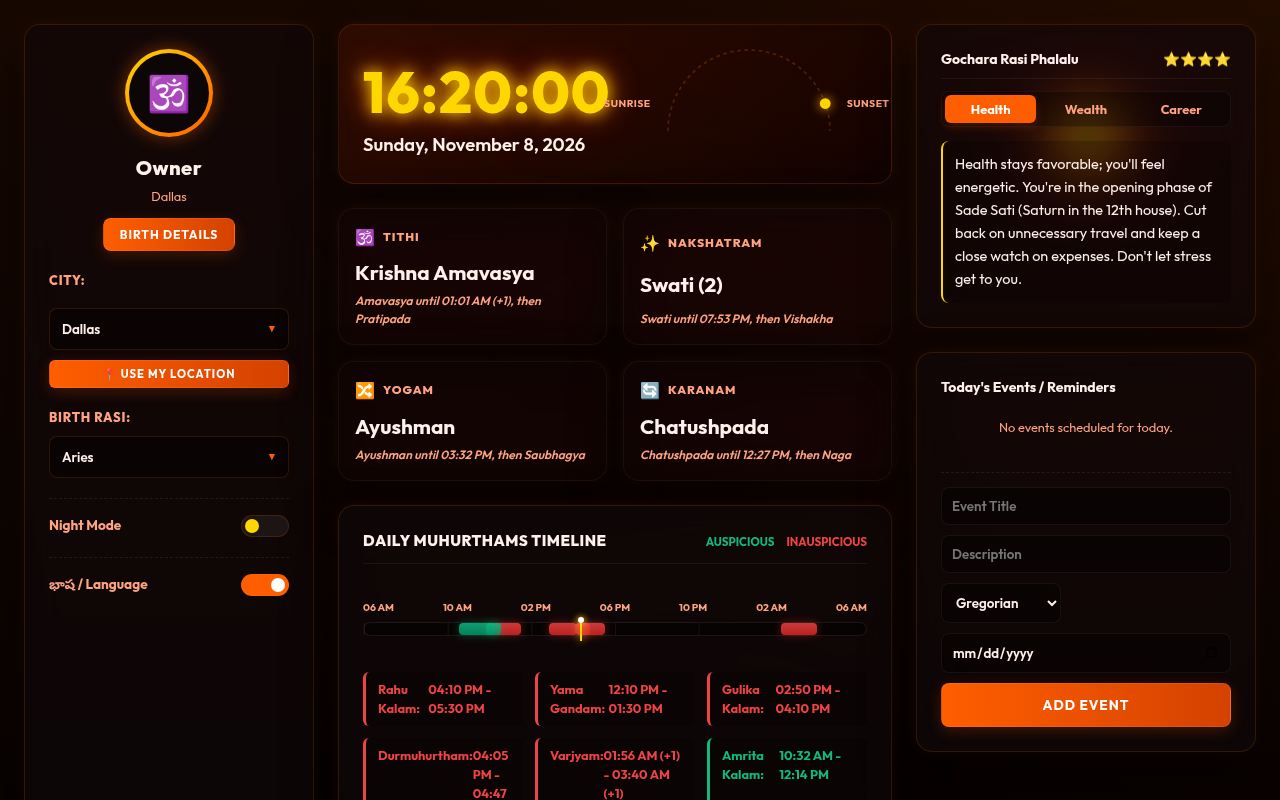
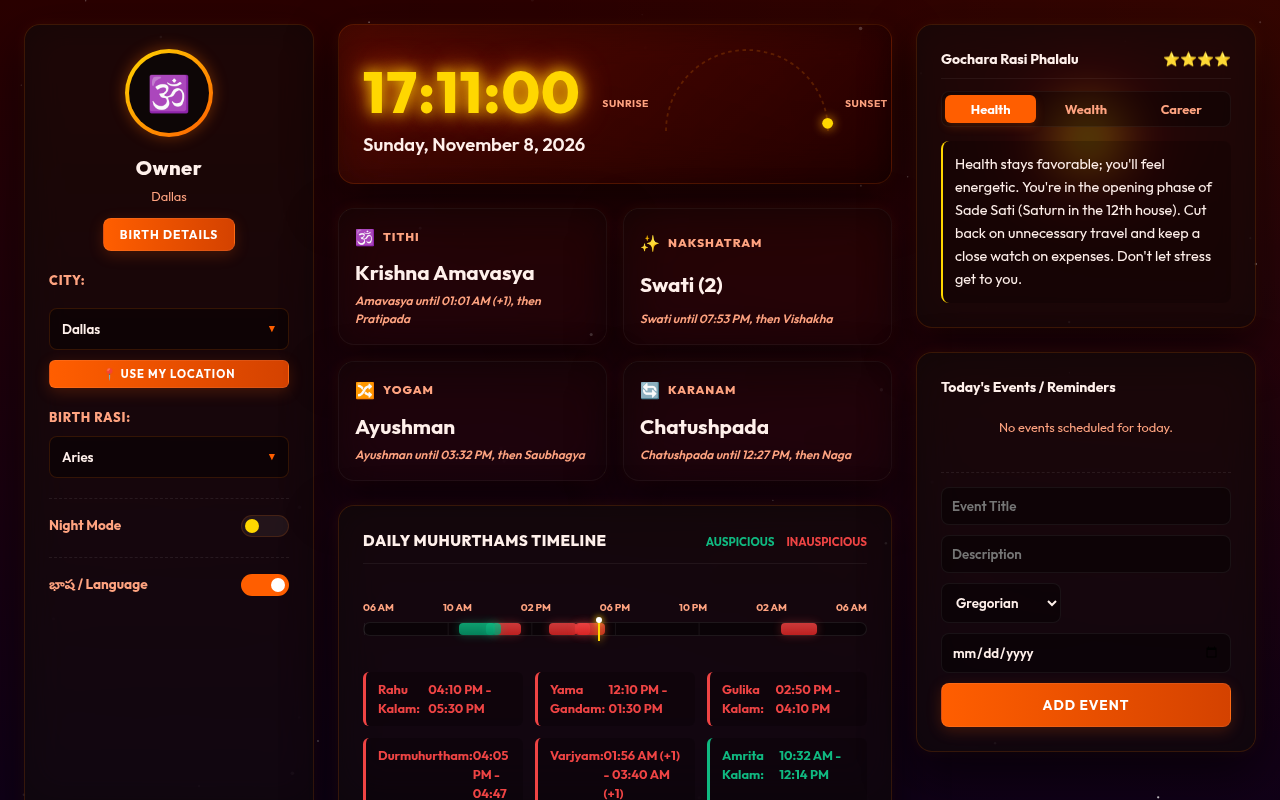
docs/marketing: fix launch-kit review findings (lane G)
- Posts may only show what the live version does: the 15 Oct post has no image (festivals only
  show in the blocked month-grid shot) and the 29 Oct post uses the 1.2.0 store shot until 2.0.0
  is live. "Needs" now means skip unless live, for every row.
- Vaikunta Ekadashi: the Bay Area and Seattle keep it on 19 Dec with an afternoon parana on 20 Dec;
  the post and section 7 say so. Section 7 also logs the other past-morning paranas and Seattle's
  13-second Bhishma Ekadashi window for lane A.
- Shot 01 is blocked and removed: in Telugu the clock card overflows at 1280px (clock over the
  sunrise label, sunset label clipped), logged for lane C. screenshots.mjs now refuses such shots;
  shot 02 is retaken at 17:11 so its clock clears the label. Festival names dropped from shots
  that don't show a festival.
- 2.0.0 submit-by moved to 15 Oct, lane F to 13 Feb; ratings checkpoint is 39 by 8 Mar, on the
  line to 50 by 6 Apr.
- Listing draft: "Now" quotes "Ritu and Masa" exactly; the Telugu bullet uses అయనం, not ఆయనం.

Claude-Session: https://claude.ai/code/session_01Pu4SSUaa4HZ38UCLnhaiD6

Changed region(s): [[0.25, 0.0312, 0.5, 0.2188], [0.625, 0.0938, 0.6875, 0.1875], [0.4375, 0.75, 0.4688, 0.8125]]

diff --git a/docs/marketing/launch-kit.md b/docs/marketing/launch-kit.md
@@ -9,7 +9,9 @@ the owner and board to approve; nothing in `chrome-store/` is changed here.
 - **Live on the Chrome Web Store: 1.2.0.** Version 2.0.0 is not published yet; publishing waits for the
   owner to run the release workflow. 2.0.0 adds Bathukamma, Atla Tadde, Karthika Somavaram, every
   Ekadashi with its parana time, Gulika Kalam, Moon-based Rasi Phalalu and the sankalpam place line for
-  US cities. A post may only mention what the published version does; the "Needs" column in §2.2 says
+  US cities. A post may only mention or show what the published version does. The §5 screenshots are
+  of 2.0.0 (they show Gulika Kalam, for one), so until 2.0.0 is live a post uses a 1.2.0 store
+  screenshot from `chrome-store/assets/screenshots/` or no image. The "Needs" column in §2.2 says
   which version or lane each post depends on.
 - **Not built yet:** printable month (lane F), share card and rating prompt (lane E), onboarding
   (lane D), Telugu store listing and optional location permission (lane B), "Upcoming this week"
@@ -41,9 +43,9 @@ India. Offline, no ads, no tracking.
    (`core/profiles/observance/andhra-telangana.js`): Engili Pula Bathukamma on Bhadrapada Amavasya and
    Saddula Bathukamma on Ashwayuja Shukla Ashtami; Atla Tadde by moonrise, so it can fall a day apart
    (27 Oct in Dallas, 28 Oct in Hyderabad this year); every Ekadashi with its parana window (after Hari
-   Vasara, within the morning, before Dwadashi ends; `core/rules.js`); Vaikunta Ekadashi by Dhanurmasam;
-   శుద్ధ/బహుళ; the samvatsara changes at Ugadi. **Needs 2.0.0.** Say "follows Telugu practice", not
-   "verified": most of these rules have no reference fixture yet.
+   Vasara, in the morning where it can be, before Dwadashi ends; `core/rules.js`); Vaikunta Ekadashi
+   by Dhanurmasam; శుద్ధ/బహుళ; the samvatsara changes at Ugadi. **Needs 2.0.0.** Say "follows Telugu
+   practice", not "verified": most of these rules have no reference fixture yet.
 
 ## 2. Seasonal content calendar, Oct 2026 to Apr 2027
 
@@ -96,17 +98,19 @@ starts Sunday 14 Mar 2027.
 Posts go out three days before the earlier of the two city dates. Association newsletters need
 about four weeks' lead; send Template 1 when the version it describes is already published.
 Reddit gets two posts in the whole window (Sankranti and Ugadi) so it never reads as spam.
+"Needs" is what must be live on the store (or shipped by a lane) on the posting day; if it isn't,
+skip the post, or the part of it that needs it.
 
 | Post on | For | What to post | Where | Needs |
 |---|---|---|---|---|
-| Tue 6 Oct | Engili Pula Bathukamma (Dallas 9 Oct, Hyderabad 10 Oct); Navaratri from 11 Oct | Bathukamma's nine days, with Saddula Bathukamma on 18 Oct marked on the tab for your city. Template 3. | Bathukamma event pages of ATA, TAGDV and the Dallas and Bay Area associations; Telangana WhatsApp groups; Instagram creators | 2.0.0 published by 6 Oct; otherwise skip |
-| Thu 15 Oct | Saddula Bathukamma and Durgashtami 18 Oct, Mahanavami 19 Oct, Dasara 20 Oct | Dasara week at a glance; screenshot 01. | Association social pages, temple WhatsApp groups | Dasara: 1.2.0. Bathukamma: 2.0.0 |
+| Tue 6 Oct | Engili Pula Bathukamma (Dallas 9 Oct, Hyderabad 10 Oct); Navaratri from 11 Oct | Bathukamma's nine days, with Saddula Bathukamma on 18 Oct marked on the tab for your city. Template 3. | Bathukamma event pages of ATA, TAGDV and the Dallas and Bay Area associations; Telangana WhatsApp groups; Instagram creators | 2.0.0 |
+| Thu 15 Oct | Saddula Bathukamma and Durgashtami 18 Oct, Mahanavami 19 Oct, Dasara 20 Oct | Dasara week at a glance. No image: on the tab, festivals show only in the month grid (shot 3, blocked). | Association social pages, temple WhatsApp groups | Dasara: 1.2.0. Bathukamma: 2.0.0 |
 | Sat 24 Oct | Atla Tadde (Dallas 27 Oct, Hyderabad 28 Oct) | "Atla Tadde follows moonrise, so the day depends on where you live." The clearest city-specific example. | TANA and NATA social pages, Andhra WhatsApp groups, cooking creators | 2.0.0 |
-| Thu 29 Oct | Clocks fall back Sun 1 Nov | "Rahu Kalam moves an hour with the clocks; the tab already accounts for it." Screenshot 02. | US association pages and US temple WhatsApp groups only | 1.2.0 (Drik fixture covers 1 Nov in Dallas) |
+| Thu 29 Oct | Clocks fall back Sun 1 Nov | "Rahu Kalam moves an hour with the clocks; the tab already accounts for it." Image: screenshot 02 if 2.0.0 is live, otherwise the 1.2.0 store shot `chrome-store/assets/screenshots/02-dallas-full.png` or none. | US association pages and US temple WhatsApp groups only | 1.2.0 (Drik fixture covers 1 Nov in Dallas) |
 | Wed 4 Nov | Naraka Chaturdashi (Dallas 7 Nov, Hyderabad 8 Nov), Deepavali 8 Nov | Deepavali; note that the pre-dawn oil bath day differs by city this year. | All channels except Reddit | Deepavali: 1.2.0. The date split: 2.0.0, checked against Drik first |
 | Fri 6 Nov | Karthika masam (Mondays from 9 Nov in Dallas, 16 Nov in Hyderabad), Nagula Chavithi, Karthika Purnima | Every Karthika Somavaram marked for your city. | Shiva temple WhatsApp groups, creators doing Karthika vratam content | 2.0.0 |
 | Tue 17 Nov | Utthana Ekadashi (Dallas 20 Nov, Hyderabad 21 Nov) | Optional: parana time on the tab. | Temple WhatsApp groups | 2.0.0 |
-| Thu 17 Dec | Vaikunta Ekadashi 20 Dec, parana 21 Dec | Vaikunta Ekadashi with the next morning's parana window for your city. Tell people to check their own city: the engine puts it on 19 Dec for the Bay Area. | Venkateswara/Balaji temple WhatsApp groups and newsletters, creators | 2.0.0; check the Bay Area date against Drik first |
+| Thu 17 Dec | Vaikunta Ekadashi: 20 Dec with parana the morning of 21 Dec in India and every US preset except the West Coast; 19 Dec in the Bay Area and Seattle, with parana from 12:05 PM on 20 Dec | Vaikunta Ekadashi with the parana window for your city; tell people to check their own city on the tab. Say "next-morning parana on 21 Dec" only for the cities where it holds. | Venkateswara/Balaji temple WhatsApp groups and newsletters, creators | 2.0.0; check the Bay Area and Seattle date and parana against Drik first, and leave them out of the post if Drik differs |
 | Sun 10 Jan | Bhogi (Dallas 13 Jan, Hyderabad 14 Jan), Sankranti, Kanuma, Mukkanuma | "Sankranti 2027 is on 14 Jan in the US and 15 Jan in Hyderabad": the Sun enters Makara in the evening in India, which is still morning in the US. First Reddit post. | All channels; r/telugu (Template 4), r/ABCDesis (English) | 2.0.0; check the dates against Drik first. Share card (lane E) if shipped |
 | Mon 8 Feb | Vasanta Panchami 11 Feb, Ratha Saptami 13 Feb | Optional, short. | Creators | 1.2.0 |
 | Tue 2 Mar | Maha Shivaratri (Dallas 5 Mar, Hyderabad 6 Mar) | Shivaratri follows the midnight (nishita) rule, so the US night can be a day earlier. | Shiva temple WhatsApp groups, association pages | 2.0.0 |
@@ -120,7 +124,7 @@ sankalpam reads ప్లవంగ from 7 Apr (screenshot 04).
 
 | Date | Step |
 |---|---|
-| By Sat 20 Feb | Printable month (lane F) published; rating prompt (lane E) live since Sankranti. |
+| By Sat 20 Feb | Printable month (lane F) published (submitted by Sat 13 Feb); rating prompt (lane E) live since Sankranti. |
 | Mon 8 Mar | Template 1 to TANA, ATA, NATA, TAGDV and local association newsletter editors for April issues. Template 2 to US temple admins, with the April 2027 page printed for their city (Ugadi 7 Apr, Sri Rama Navami 14 Apr in Dallas, 15 Apr in Hyderabad). |
 | Wed 24 Mar | Template 5 to creators, with the §2.1 table. |
 | Sun 4 Apr | Main push: Template 3 to WhatsApp groups, Template 4 to r/telugu, an English version to r/ABCDesis, association social posts. Message: the new samvatsara Plavanga starts on 7 Apr and the tab's sankalpam already says it. |
@@ -288,14 +292,16 @@ paragraph stays word for word.
 | Paragraph 1, timings sentence | …plus the day's Rahu Kalam (రాహు కాలం), Yamagandam and Gulika Kalam — the timings people check before starting anything important. | …plus the day's Rahu Kalam (రాహు కాలం), Yamagandam, Gulika Kalam, Durmuhurtham and Varjyam — the timings people check before starting anything important. Tithi and nakshatra end times run to the next sunrise, as in a printed Telugu panchangam. |
 | New sentence after paragraph 2 | — | Festivals and vratas follow Telugu household practice, from Bathukamma and Atla Tadde to every Ekadashi, which comes with the time to break the fast. |
 | Rasi Phalalu bullet | Daily Rasi Phalalu (రాశి ఫలాలు) for all 12 rasis, presented as a daily reading, not a prediction. | Daily Rasi Phalalu (రాశి ఫలాలు) for all 12 rasis, following the Moon's transit so the reading changes every couple of days; presented as a daily reading, not a prediction. |
-| Sankalpam bullet | A Vedic Sankalpam (సంకల్పం) generated automatically with the correct Samvatsara, Ayana, Ritu, and Masa for your pooja. | A Vedic Sankalpam (సంకల్పం) generated automatically with the correct Samvatsara, Ayana, Ritu and Masa for your pooja, and a place line that suits your city, in India or the Americas. |
+| Sankalpam bullet | A Vedic Sankalpam (సంకల్పం) generated automatically with the correct Samvatsara, Ayana, Ritu and Masa for your pooja. | A Vedic Sankalpam (సంకల్పం) generated automatically with the correct Samvatsara, Ayana, Ritu and Masa for your pooja, and a place line that suits your city, in India or the Americas. |
 
 Telugu section, same edits:
 
 - Timings sentence, add: దుర్ముహూర్తం, వర్జ్యం; then: తిథి, నక్షత్రాల ముగింపు సమయాలు మరుసటి సూర్యోదయం వరకు, ముద్రించిన తెలుగు పంచాంగంలో లాగానే ఉంటాయి.
 - New sentence: బతుకమ్మ, అట్లతద్దె నుంచి ప్రతి ఏకాదశి వరకు పండుగలు, వ్రతాలు మన తెలుగు ఇళ్లలో పాటించే పద్ధతిలోనే ఉంటాయి; ఏకాదశికి ఉపవాసం విరమించే పారణ సమయం కూడా ఉంటుంది.
 - Rasi Phalalu bullet: పన్నెండు రాశులకూ రోజువారీ రాశి ఫలాలు, చంద్ర గోచారాన్ని బట్టి ప్రతి రెండు మూడు రోజులకు మారుతాయి. ఇది ఒక రోజువారీ పఠనం మాత్రమే, భవిష్యవాణి కాదు.
-- Sankalpam bullet: సరైన సంవత్సరం, ఆయనం, ఋతువు, మాసంతో పాటు మీ నగరానికి తగిన దేశ వర్ణనతో (భారతదేశం లేదా అమెరికా) స్వయంచాలకంగా తయారయ్యే సంకల్పం.
+- Sankalpam bullet: సరైన సంవత్సరం, అయనం, ఋతువు, మాసంతో పాటు మీ నగరానికి తగిన దేశ వర్ణనతో (భారతదేశం లేదా అమెరికా) స్వయంచాలకంగా తయారయ్యే సంకల్పం.
+  This also corrects a misspelling in the approved copy, which has ఆయనం with a long ఆ (ఆయన means "he");
+  the word is అయనం, as in ఉత్తరాయణం.
 
 For lane B: the manifest description starts "Premium offline Telugu Calendar…". "Premium" reads as a paid
 tier, which the extension doesn't have. Suggested for `_locales/en`: "Offline Telugu Panchangam, Rasi
@@ -305,20 +311,23 @@ Phalalu and Sankalpam on your new tab, computed for your own city."
 
 `node docs/marketing/tools/screenshots.mjs` loads the unpacked extension in headless Chromium, sets each
 scene's state in `chrome.storage.local`, freezes the page clock at the city's local time (so "today" is
-the festival day), and writes `docs/marketing/screenshots/`. It refuses to write a shot whose month grid
-is clipped and exits non-zero on any page or console error. One capture-only override: the city and
-rasi `<select>`s get the page's Telugu font, because headless Linux has no system Telugu font (see §7).
+the scene's date), and writes `docs/marketing/screenshots/`. It refuses to write a shot whose month
+grid is clipped or whose clock card overflows, and exits non-zero on any page or console error. One
+capture-only override: the city and rasi `<select>`s get the page's Telugu font, because headless Linux
+has no system Telugu font (see §7). Festivals show only in the month grid, so of these shots only 3
+(the month) and 4 (the new samvatsara on Ugadi) show one; don't caption the others as festival scenes.
 
 | # | File | State (language, city, local time, theme, view) | Shows | Caption (en / te) | Status |
 |---|---|---|---|---|---|
-| 1 | `01-today-telugu-hyderabad.png` | te, Hyderabad, Sun 18 Oct 2026 07:30 (Saddula Bathukamma), light, top | Clock, శుద్ధ సప్తమి then అష్టమి, nakshatra pada, timings | Today's panchangam, in Telugu / ఈరోజు పంచాంగం, తెలుగులో | Committed |
-| 2 | `02-dallas-rahu-kalam.png` | en, Dallas, Sun 8 Nov 2026 16:20 (Deepavali), light, top | Rahu Kalam 4:10–5:30 PM (matches Drik), cursor inside it | Built for US cities: Rahu Kalam for Dallas, daylight saving included / అమెరికా నగరాలకూ: డల్లాసు రాహుకాలం, డేలైట్ సేవింగ్ మార్పులతో సహా | Committed |
+| 1 | `01-today-telugu-hyderabad.png` | te, Hyderabad, Sun 18 Oct 2026 07:30, light, top | Clock, శుద్ధ సప్తమి then అష్టమి, nakshatra pada, timings | Today's panchangam, in Telugu / ఈరోజు పంచాంగం, తెలుగులో | **Blocked**: the Telugu clock card overflows (§7) |
+| 2 | `02-dallas-rahu-kalam.png` | en, Dallas, Sun 8 Nov 2026 17:11, light, top | Rahu Kalam 4:10–5:30 PM (matches Drik), cursor inside it | Built for US cities: Rahu Kalam for Dallas, daylight saving included / అమెరికా నగరాలకూ: డల్లాసు రాహుకాలం, డేలైట్ సేవింగ్ మార్పులతో సహా | Committed; 17:11 keeps the clock clear of the sunrise label (§7) |
 | 3 | `03-festival-month.png` | te, Hyderabad, Tue 20 Oct 2026 10:00 (Vijayadashami), light, month grid | October: Navaratri, Durgashtami, Dasara, Atla Tadde | The month at a glance, with festivals and vratas / పండుగలు, వ్రతాలతో నెల పట్టిక | **Blocked**: the month grid is clipped (§7) |
 | 4 | `04-sankalpam-dallas-ugadi.png` | te, Dallas, Wed 7 Apr 2027 07:45 (Ugadi), light, sankalpam card at the bottom | The new year (ప్లవంగ నామ సంవత్సరే, చైత్ర మాసే) and the US place line | A daily sankalpam with a place line for the US, here on Ugadi / అమెరికాకు తగిన దేశ వర్ణనతో రోజువారీ సంకల్పం, ఉగాది నాడు | Committed |
-| 5 | `05-gita-verse.png` | en, New York / Edison NJ, Sun 20 Dec 2026 06:30 (Vaikunta Ekadashi), dark, Gita card at the bottom | Gita 12.10 in Sanskrit, transliteration and English; dark theme | A Bhagavad Gita verse every day / ప్రతిరోజూ ఒక భగవద్గీత శ్లోకం | Committed |
+| 5 | `05-gita-verse.png` | en, New York / Edison NJ, Sun 20 Dec 2026 06:30, dark, Gita card at the bottom | Gita 12.10 in Sanskrit, transliteration and English; dark theme | A Bhagavad Gita verse every day / ప్రతిరోజూ ఒక భగవద్గీత శ్లోకం | Committed |
 
-The store keeps its current five screenshots until shot 3 can be captured and the owner approves the
-set; then copy the five into `chrome-store/assets/screenshots/` and update `store.config.json`.
+The store keeps its current five screenshots until 2.0.0 is live, shots 1 and 3 can be captured and
+the owner approves the set; then copy the five into `chrome-store/assets/screenshots/` and update
+`store.config.json`.
 
 ## 6. Metrics (CWS Developer Dashboard only)
 
@@ -330,16 +339,16 @@ release notes or an issue.
 | Weekly users | The trend line. Record the baseline on Mon 5 Oct 2026. | The plan sets no number. A push that doesn't lift weekly users within a week: drop that channel next time. |
 | Installs by region | US against India share shows whether the US-city message lands. | Watch after the 29 Oct, 10 Jan and 4 Apr posts, which target US readers. |
 | Uninstalls by region | Weekly uninstalls divided by weekly installs. | A jump after a release or a push: look at the "Change back to Google?" bubble first (§5.1, lane D's day-one note). |
-| Ratings | Average and count. | **≥ 4.5★ with 50+ reviews before Ugadi (by Tue 6 Apr 2027)**, per §5.4. Proposed checkpoints on a straight line: 20 by Mon 18 Jan, 35 by Mon 8 Mar. |
+| Ratings | Average and count. | **≥ 4.5★ with 50+ reviews before Ugadi (by Tue 6 Apr 2027)**, per §5.4. Proposed checkpoints: 20 by Mon 18 Jan, then on a straight line to the target, 39 by Mon 8 Mar. |
 
 Milestones from §5.4, with a submission date that leaves a week for CWS review (1.2.0 needed a
 resubmission after its rejection):
 
 | Before | Date | Must be live | Submit by |
 |---|---|---|---|
-| Deepavali 2026 | Sun 8 Nov (Naraka Chaturdashi Sat 7 Nov in Dallas) | 2.0.0 (carries the P0 fixes planned for 1.2.1); Telugu store listing (lane B) | Thu 29 Oct |
+| Deepavali 2026 | Sun 8 Nov (Naraka Chaturdashi Sat 7 Nov in Dallas) | 2.0.0 (carries the P0 fixes planned for 1.2.1); Telugu store listing (lane B). Live by Sat 24 Oct for the Atla Tadde post (§2.2) | Thu 15 Oct |
 | Sankranti 2027 | Wed 13 Jan (Bhogi in the US) | Onboarding (D), optional location permission (B), share card (E); the Moon-based horoscope is already in 2.0.0 | Mon 4 Jan |
-| Ugadi 2027 | Wed 7 Apr | Printable month (F); temple and association outreach sent (8 Mar); ratings target | Sat 20 Feb (lane F) |
+| Ugadi 2027 | Wed 7 Apr | Printable month (F), live by Sat 20 Feb (§2.3); temple and association outreach sent (8 Mar); ratings target | Sat 13 Feb (lane F) |
 
 Reviews: Mon 9 Nov (Deepavali), Mon 18 Jan (Sankranti), Mon 12 Apr (Ugadi).
 
@@ -352,13 +361,23 @@ For the owning lanes; none is fixed here.
   in English while the card is at most 860px wide. In the three-column layout (windows wider than
   1200px) the right-hand columns are always cut off; at 1280px only Sunday to Wednesday show.
   `repeat(7, minmax(0, 1fr))` should fix it. Blocks shot 3.
+- **Clock card overflows (lane C, user-visible).** In the three-column layout the clock's column grows
+  to fit the clock, and the sun-arc row (two labels around the 180px arc) needs 278px in Telugu and
+  263px in English but gets 229px and 241px. Centred, it spills both ways: wide digits such as 07:30:00
+  run into the సూర్యోదయం label, and in Telugu the సూర్యాస్తమయం label runs 16–24px past the card and is
+  cut off (the live store's `01-hyderabad-full.png` shows it too). Letting the arc shrink to fit should
+  fix it. Blocks shot 1; shot 2 is taken at 17:11 so its clock clears the label.
 - **City and rasi selects use the default font (lane C).** They have no `font-family`, unlike the
   reminders select, so their Telugu falls back to whatever the OS has.
 - **Clock shows Hyderabad time for up to a second (lane C).** `setupClock()` runs before the saved city
   loads.
-- **Parana past the morning (lane A).** Bhishma Ekadashi 2027 in Dallas: Hari Vasara ends 11:16 AM, so
-  the window runs from 11:16 AM until Dwadashi ends at 2:58 AM the next night. Check the display and
-  the rule against Drik.
-- **Kshaya Ekadashi (lane A).** Vaikunta Ekadashi 2026 lands on 19 Dec for the Bay Area (Ekadashi holds
-  at no sunrise there), against 20 Dec for Dallas, Edison and Hyderabad. Confirm which day Telugu
-  practice keeps.
+- **Parana past the morning (lane A).** When Hari Vasara outlasts the morning, `core/rules.js` runs the
+  window on until Dwadashi ends. Bhishma Ekadashi 2027 in Dallas: 11:16 AM on 17 Feb to 2:58 AM the
+  next night (the same shape, in local time, in every US preset but New York, Boston, Raleigh and
+  Seattle). In Seattle the window is 13 seconds long (9:16:11 to 9:16:24 AM), because the morning ends
+  just after Hari Vasara does. Vaikunta Ekadashi 2026 in the Bay Area and Seattle: 12:05 PM on 20 Dec
+  to 4:06 AM on 21 Dec. Utthana Ekadashi 2026 in Delhi: 12:08 PM on 21 Nov to 4:56 AM on 22 Nov. Check
+  the display and the rule against Drik.
+- **Kshaya Ekadashi (lane A).** Vaikunta Ekadashi 2026 lands on 19 Dec for the Bay Area and Seattle
+  (Ekadashi runs 8:39 AM on 19 Dec to 6:44 AM on 20 Dec Pacific time, so it holds at no sunrise
+  there), against 20 Dec for every other preset. Confirm which day Telugu practice keeps.
